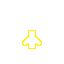
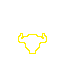
new Hero textures

Changed region(s): [[0.2812, 0.4688, 0.75, 0.8438]]

diff --git a/core/src/com/efm/state/update combat hero states.kt b/core/src/com/efm/state/update combat hero states.kt
@@ -772,7 +772,7 @@ fun updateCombatHeroMultiUseMapItemTargetSelectedTwice(currState : State.combat.
         else
         {
             Map.changeTile(MapLayer.select, World.hero.position, Tiles.selectGreen)
-            Map.changeTile(MapLayer.outline, World.hero.position, Tiles.heroOutlineGreen)
+            Map.changeTile(MapLayer.outline, World.hero.position, Tiles.heroIdle1OutlineGreen)
             
             return State.combat.hero.heroSelected.apply {
                 this.isHeroAlive = currState.isHeroAlive
@@ -944,7 +944,7 @@ fun updateCombatHeroStackableMapItemTargetSelectedTwice(currState : State.combat
         else
         {
             Map.changeTile(MapLayer.select, World.hero.position, Tiles.selectGreen)
-            Map.changeTile(MapLayer.outline, World.hero.position, Tiles.heroOutlineGreen)
+            Map.changeTile(MapLayer.outline, World.hero.position, Tiles.heroIdle1OutlineGreen)
             
             return State.combat.hero.heroSelected.apply {
                 this.isHeroAlive = currState.isHeroAlive
@@ -1085,7 +1085,7 @@ fun updateCombatHeroActiveSkillTargetSelectedTwice(currState : State.combat.hero
         currState.areEnemiesInRoom = World.currentRoom.getEnemies().isNotEmpty()
         
         Map.changeTile(MapLayer.select, World.hero.position, Tiles.selectGreen)
-        Map.changeTile(MapLayer.outline, World.hero.position, Tiles.heroOutlineGreen)
+        Map.changeTile(MapLayer.outline, World.hero.position, Tiles.heroIdle1OutlineGreen)
         
         return State.combat.hero.heroSelected.apply {
             this.isHeroAlive = currState.isHeroAlive

diff --git a/core/src/com/efm/entities/Hero.kt b/core/src/com/efm/entities/Hero.kt
@@ -1,6 +1,7 @@
 package com.efm.entities
 
 import com.badlogic.gdx.maps.tiled.TiledMapTile
+import com.efm.IdleAnimation
 import com.efm.assets.Tiles
 import com.efm.entity.Character
 import com.efm.item.Container
@@ -25,7 +26,7 @@ class Hero(
     var abilityPoints : Int = 14
     
     var apDrainInNextTurn = 0
-    var canMoveNextTurn = true
+    var canMoveNextTurn = false
     
     val inventory = HeroInventory()
     
@@ -33,17 +34,34 @@ class Hero(
     
     override fun getTile() : TiledMapTile
     {
-        return Tiles.hero
+        return if(canMoveNextTurn) Tiles.heroIdle1 else Tiles.heroVines
+    }
+    
+    fun getIdleTile() : TiledMapTile?
+    {
+        return if(canMoveNextTurn) Tiles.heroIdle1 else Tiles.heroVines
+    }
+    
+    fun getMoveTile(n : Int) : TiledMapTile?
+    {
+        return when (n)
+        {
+            1    -> Tiles.heroMove1
+            2    -> Tiles.heroMove2
+            3    -> Tiles.heroMove3
+            4    -> Tiles.heroMove4
+            else -> Tiles.heroMove1
+        }
     }
     
     override fun getOutlineYellowTile(n : Int) : TiledMapTile
     {
-        return Tiles.heroOutlineYellow
+        return Tiles.heroIdle1OutlineYellow
     }
     
     fun getOutlineGreenTile() : TiledMapTile
     {
-        return Tiles.heroOutlineGreen
+        return Tiles.heroIdle1OutlineGreen
     }
     
     override fun damageCharacter(dmgAmount : Int)

diff --git a/core/src/com/efm/state/update constrained states.kt b/core/src/com/efm/state/update constrained states.kt
@@ -914,7 +914,7 @@ fun updateConstrainedMultiUseMapItemTargetSelectedTwice(currState : State.constr
         else
         {
             Map.changeTile(MapLayer.select, World.hero.position, Tiles.selectGreen)
-            Map.changeTile(MapLayer.outline, World.hero.position, Tiles.heroOutlineGreen)
+            Map.changeTile(MapLayer.outline, World.hero.position, Tiles.heroIdle1OutlineGreen)
             
             return if (wasEnemyAttacked)
             {
@@ -1138,7 +1138,7 @@ fun updateConstrainedStackableMapItemTargetSelectedTwice(currState : State.const
         else
         {
             Map.changeTile(MapLayer.select, World.hero.position, Tiles.selectGreen)
-            Map.changeTile(MapLayer.outline, World.hero.position, Tiles.heroOutlineGreen)
+            Map.changeTile(MapLayer.outline, World.hero.position, Tiles.heroIdle1OutlineGreen)
             
             return if (wasEnemyAttacked)
             {
@@ -1315,7 +1315,7 @@ fun updateConstrainedActiveSkillTargetSelectedTwice(currState : State.constraine
         }
         
         Map.changeTile(MapLayer.select, World.hero.position, Tiles.selectGreen)
-        Map.changeTile(MapLayer.outline, World.hero.position, Tiles.heroOutlineGreen)
+        Map.changeTile(MapLayer.outline, World.hero.position, Tiles.heroIdle1OutlineGreen)
         
         return if (wasEnemyAttacked)
         {

diff --git a/core/src/com/efm/moveHero.kt b/core/src/com/efm/moveHero.kt
@@ -56,14 +56,17 @@ fun moveHero(startPosition : RoomPosition, endPosition : RoomPosition, path : Li
         val animations = mutableListOf<Animation>()
         animations += Animation.action { Map.changeTile(MapLayer.entity, World.hero.position, null) }
         val prevMovePosition = startPosition.copy()
-        for (space in path)
-        {
-            animations += Animation.moveTileWithCameraFocus(Tiles.hero, prevMovePosition.copy(), space.position.copy(), 0.1f)
-            animations += Animation.showTileWithCameraFocus(Tiles.hero, space.position.copy(), 0.01f)
+        path.forEachIndexed { index, space ->
+        
+            val n = (index % IdleAnimation.numberOfMoveAnimations) + 1
+            val moveTile = World.hero.getMoveTile(n)
+            
+            animations += Animation.moveTileWithCameraFocus(moveTile, prevMovePosition.copy(), space.position.copy(), 0.1f)
+            animations += Animation.showTileWithCameraFocus(moveTile, space.position.copy(), 0.01f)
             prevMovePosition.set(space.position)
         }
         if (animateToEndSpace) animations += Animation.moveTileWithCameraFocus(
-                Tiles.hero,
+                Tiles.heroIdle1,
                 prevMovePosition,
                 endPosition,
                 0.1f

diff --git a/core/src/com/efm/assets/Tiles.kt b/core/src/com/efm/assets/Tiles.kt
@@ -147,9 +147,14 @@ object Tiles
     
     // hero
     
-    val hero = load("hero.png")
-    val heroOutlineYellow = load("heroOutlineYellow.png")
-    val heroOutlineGreen = load("heroOutlineGreen.png")
+    val heroIdle1 = load("heroIdle1.png")
+    val heroVines = load("heroVines.png")
+    val heroIdle1OutlineYellow = load("heroIdle1OutlineYellow.png")
+    val heroIdle1OutlineGreen = load("heroIdle1OutlineGreen.png")
+    val heroMove1 = load("heroMove1.png")
+    val heroMove2 = load("heroMove2.png")
+    val heroMove3 = load("heroMove3.png")
+    val heroMove4 = load("heroMove4.png")
     val heroCorpse = load("heroCorpse.png")
     val heroCorpseOutlineYellow = load("heroCorpseOutlineYellow.png")
     

diff --git a/core/src/com/efm/state/update combat enemies states.kt b/core/src/com/efm/state/update combat enemies states.kt
@@ -87,7 +87,7 @@ fun updateCombatEnemiesEnemyAction(currState : State.combat.enemies.enemyAction)
                 World.hero.regainAllAP()
                 GameScreen.focusCameraOnRoomPosition(World.hero.position)
                 Map.changeTile(MapLayer.select, World.hero.position, Tiles.selectGreen)
-                Map.changeTile(MapLayer.outline, World.hero.position, Tiles.heroOutlineGreen)
+                Map.changeTile(MapLayer.outline, World.hero.position, Tiles.heroIdle1OutlineGreen)
                 
                 RightStructure.xButtonVisibility(true)
                 

diff --git a/core/src/com/efm/entities/bosses/BossWizard.kt b/core/src/com/efm/entities/bosses/BossWizard.kt
@@ -58,7 +58,7 @@ class BossWizard : Entity, Enemy
         {
             1->Tiles.skeletonMove1
             2->Tiles.skeletonMove2
-            3->Tiles.skeletonMove3
+            3->Tiles.skeletonMove1
             else->null
         }
     }
